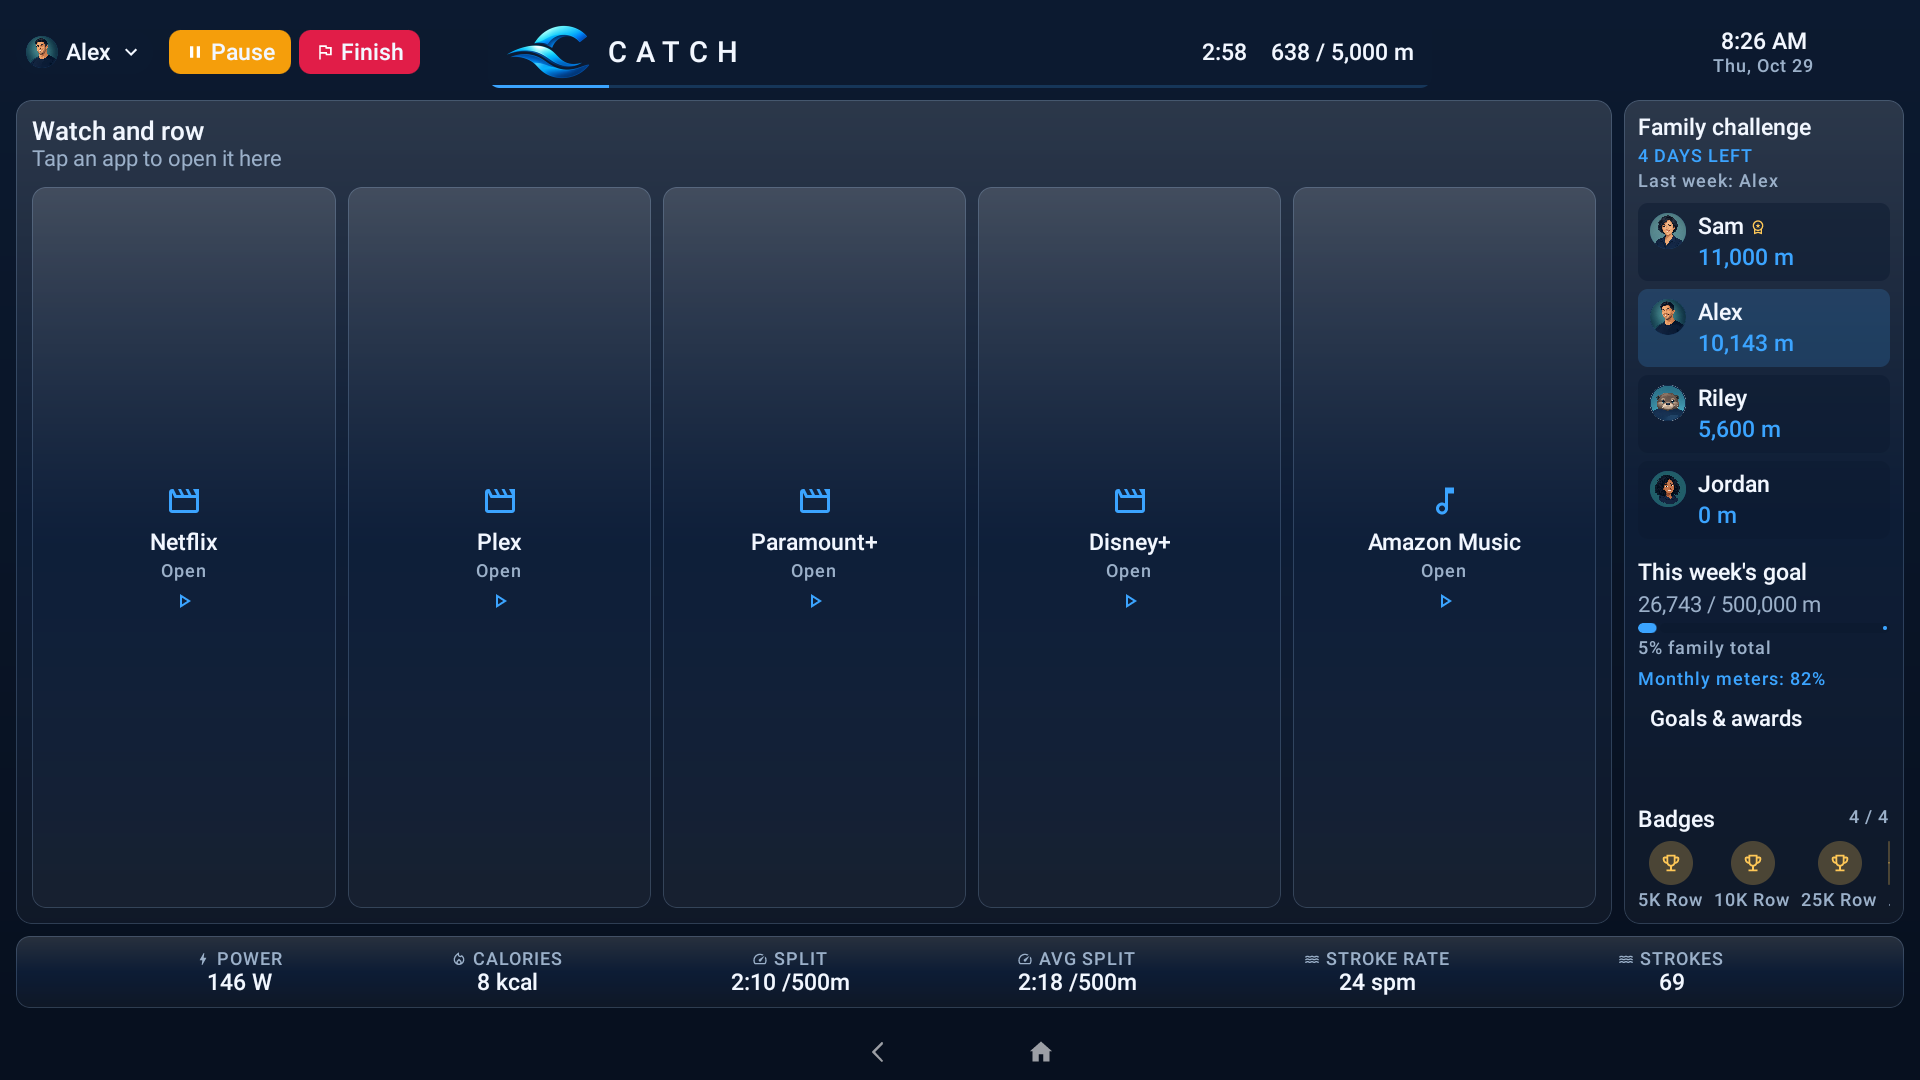
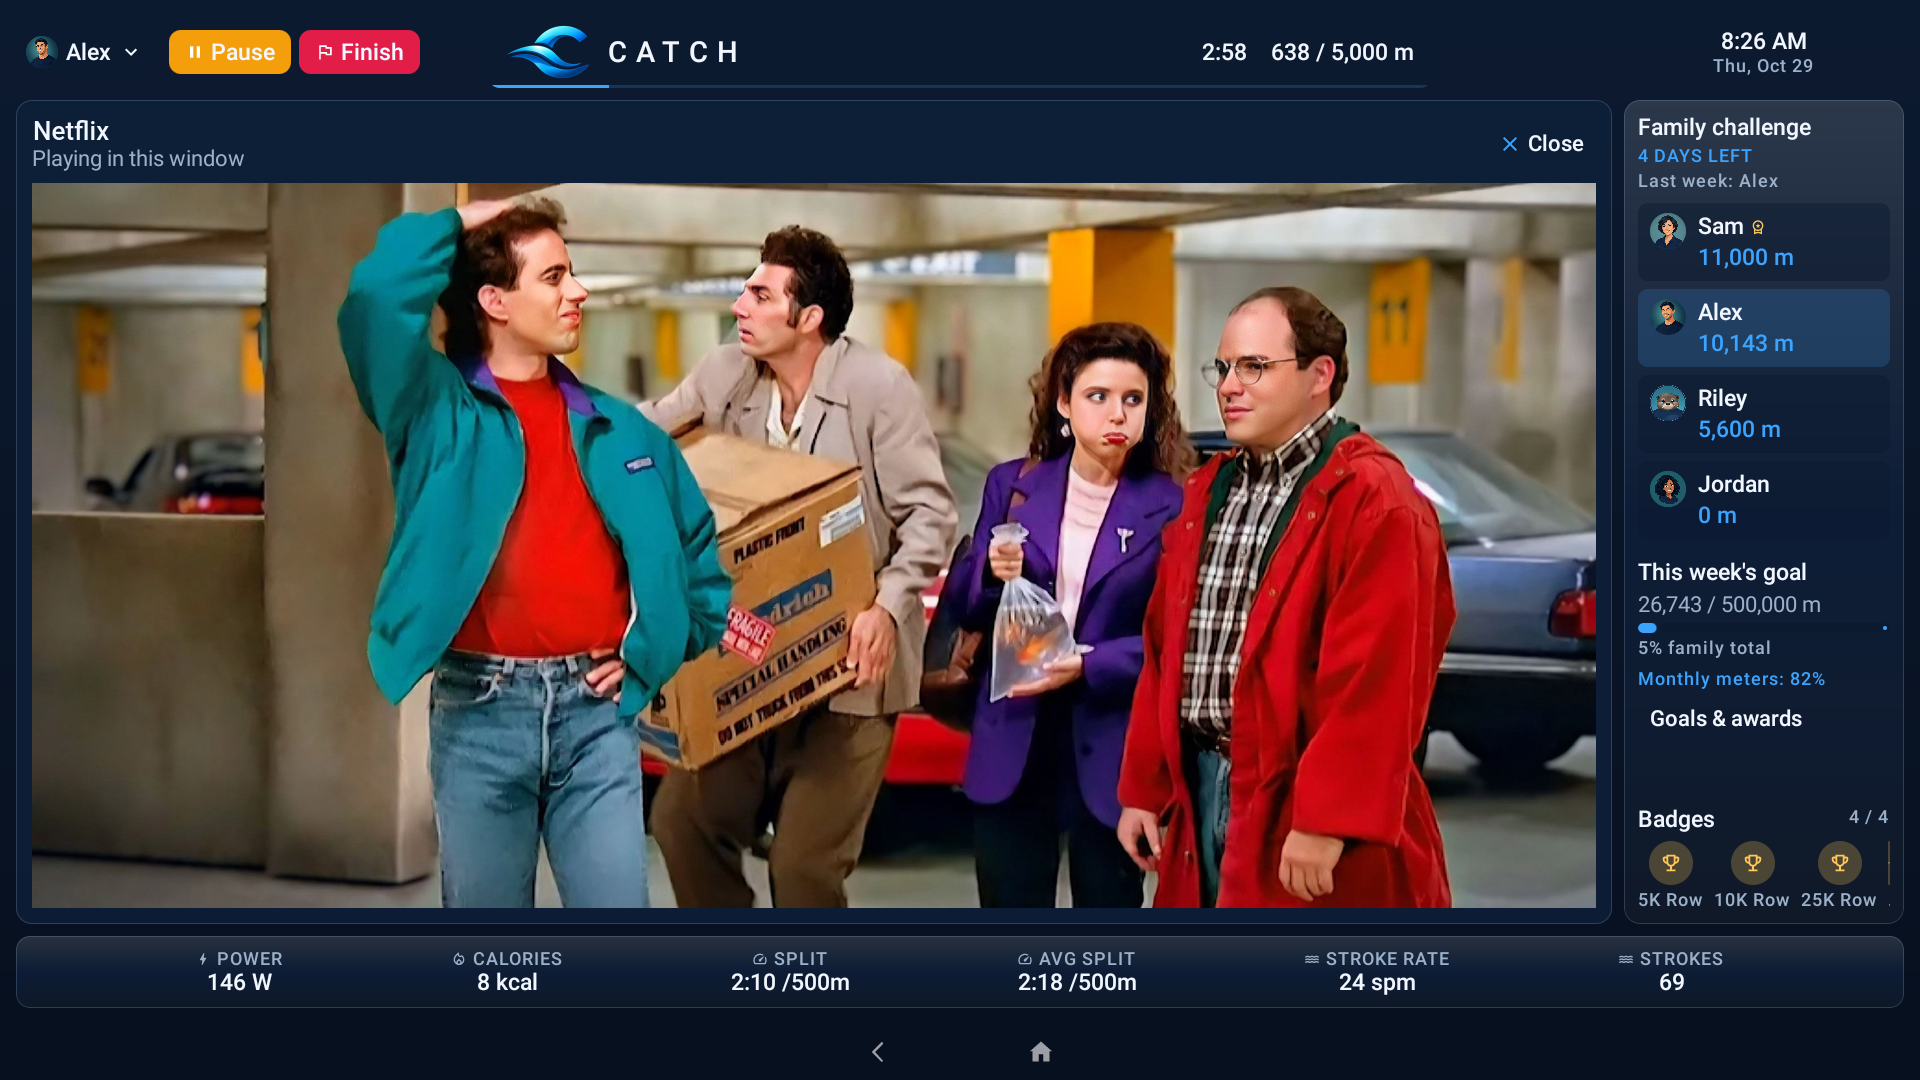
README: show Netflix playing in the pane in the main screenshot

diff --git a/README.md b/README.md
@@ -36,7 +36,7 @@ numbers never leave the screen. Every meter lands on a family board, where
 weekly goals, challenges, streaks, and badges keep everyone coming back.
 
 <p align="center">
-  <img src="docs/images/dashboard.png" alt="The Catch dashboard during a row" width="820">
+  <img src="docs/images/dashboard.png" alt="Catch during a row, with Seinfeld playing in Netflix inside the Catch frame" width="820">
 </p>
 
 ## What it looks like
